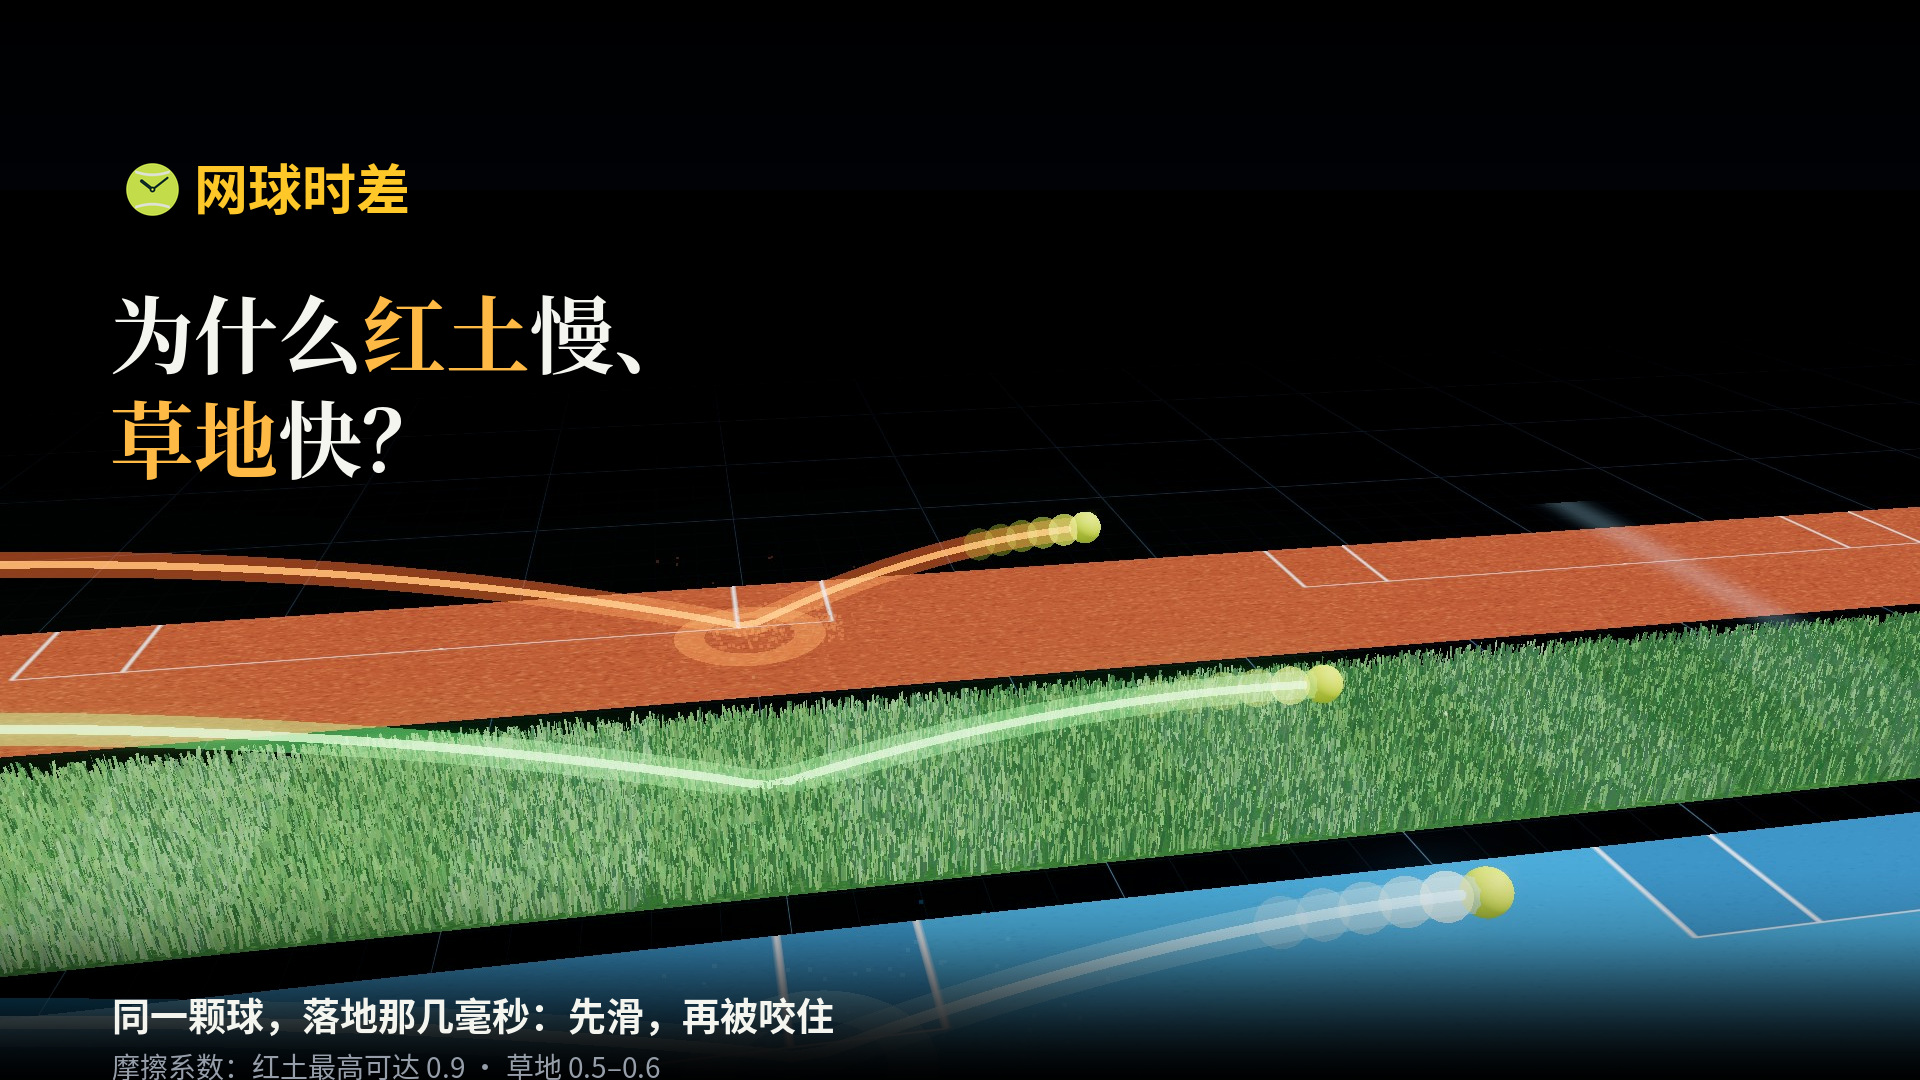
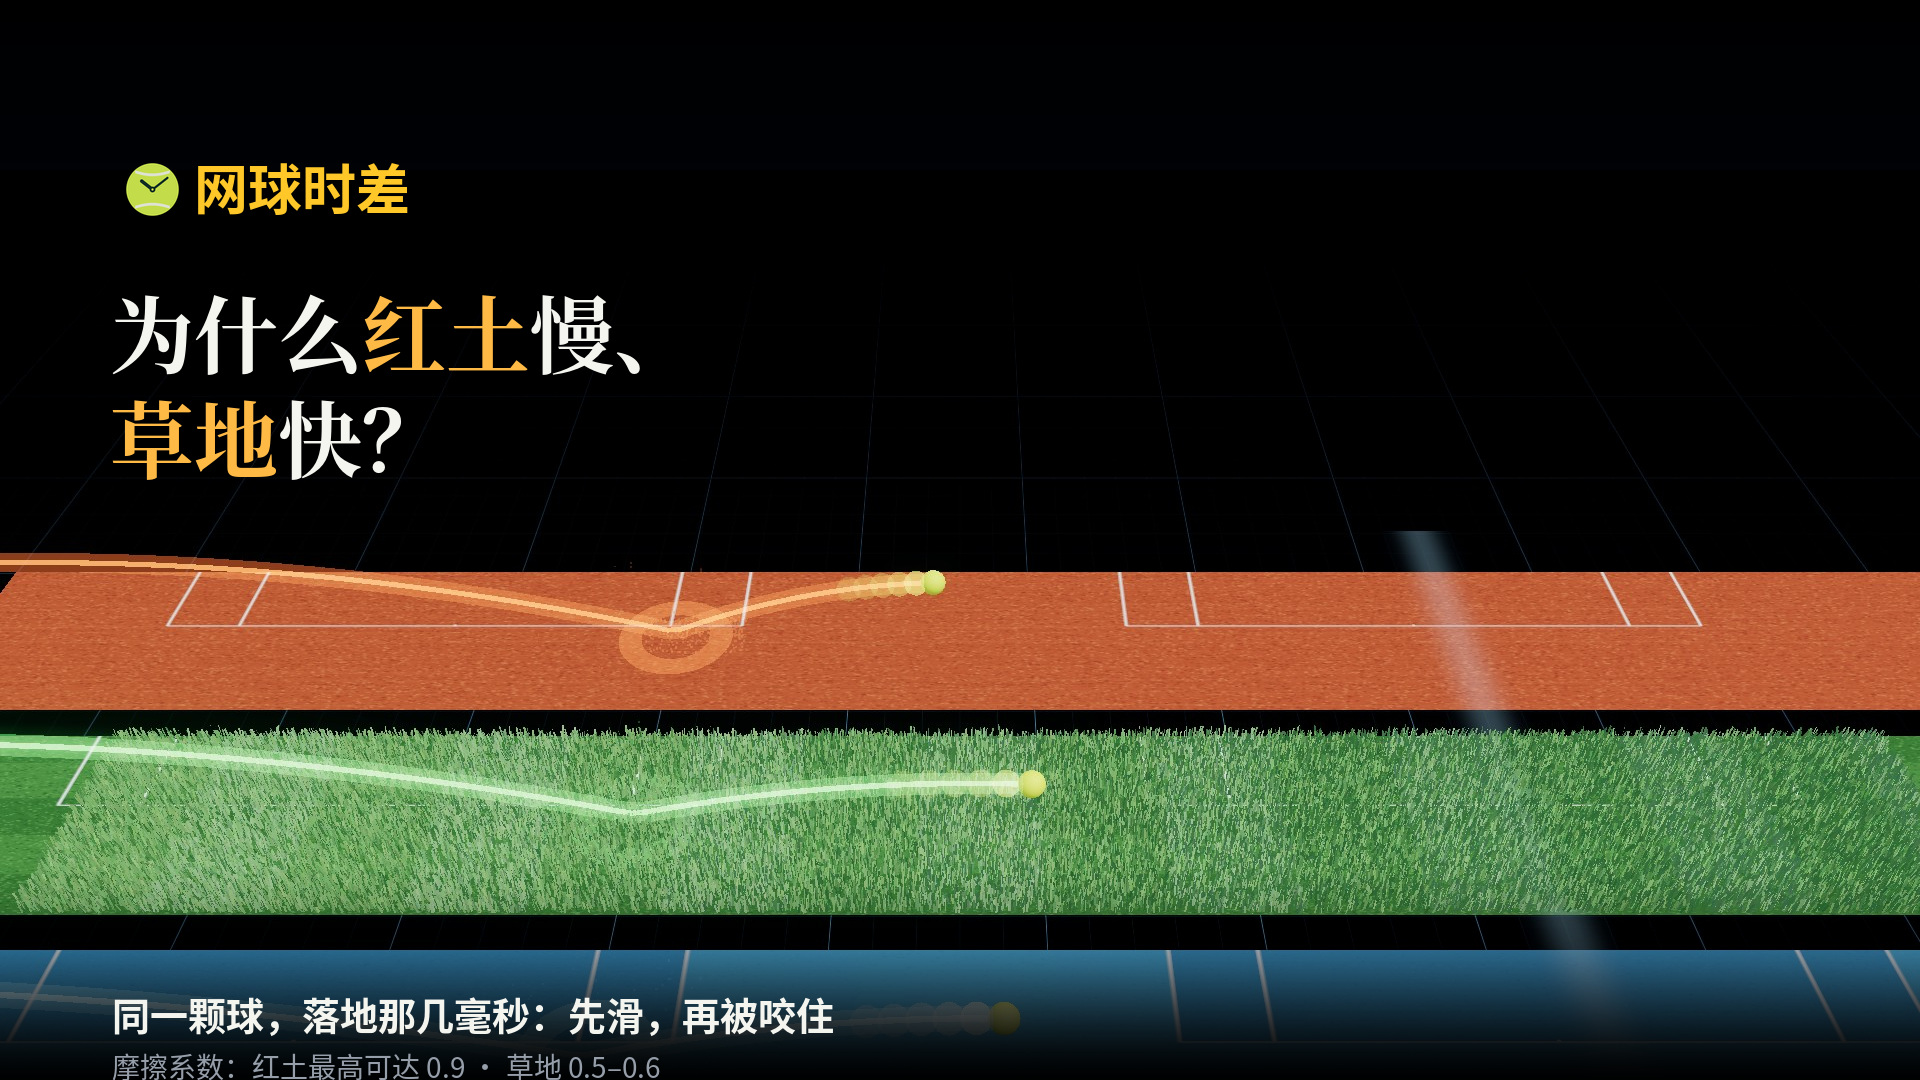
泳道镜头改成正前方俯看（所有者：场地朝屏幕倾斜，不是左右斜）；封面另用 cover=1 退远机位，三条泳道装在标题与底注之间
Claude-Session: https://claude.ai/code/session_011V3sK5yxYXvgeHo64wnqUL

Changed region(s): [[0.0, 0.4583, 1.0, 0.9472], [0.5, 0.9167, 0.5312, 0.9472]]

diff --git a/tools/vibetennis/episodes/vibetennis-court-speed-2026/r3d/scene.js b/tools/vibetennis/episodes/vibetennis-court-speed-2026/r3d/scene.js
@@ -448,9 +448,9 @@ function shotTL(t){
   setDust(-1); if(['lanes_all','lane_RG','lane_WIM','slow','years','acryl','ao_years'].includes(k)) hideWorld();
   if(k==='lanes_all'){ // 三条泳道一起：同一颗球砸向三种地面（0.6 倍慢放，循环）
     const per=4.0, tau=cl(((u%per)-1.0)*0.55,-0.9,1.3);
-    camLook(LX+lerp(-1,3,sm(u/D)),lerp(12,10,sm(u/D)),LZ+lerp(21,19,sm(u/D)),LX+3.5,0.2,LZ-1.5,42); setLanes(tau,[1,1,1]); setDust(tau); setFX(tau,[1,1,1],u); return k; }
+    if(COVER) camLook(LX+8,27,LZ+25,LX+8,0,LZ-4,40); else camLook(LX+3+lerp(-0.6,0.6,sm(u/D)),lerp(21,19,sm(u/D)),LZ+lerp(21,19,sm(u/D)),LX+3,0,LZ-0.8,40); /* 所有者：场地朝屏幕倾斜（正前方俯看），不是左右斜 */ setLanes(tau,[1,1,1]); setDust(tau); setFX(tau,[1,1,1],u); return k; }
   if(k==='lane_RG'||k==='lane_WIM'){ const per=4.6, tau=cl(((u%per)-1.2)*0.45,-0.9,1.3), show=k==='lane_RG'?[1,0,0]:[1,1,0];
-    const ln=k==='lane_RG'?LANES[0]:LANES[1]; camLook(LX+2+Math.sin(u*0.15)*1.5,6.5,LZ+ln.z+15,LX+4,0.6,LZ+ln.z,42); setLanes(tau,show); setDust(tau); setFX(tau,show,u); return k; }
+    const ln=k==='lane_RG'?LANES[0]:LANES[1]; camLook(LX+3+Math.sin(u*0.15)*0.8,10,LZ+ln.z+11,LX+3.5,0.3,LZ+ln.z,42); setLanes(tau,show); setDust(tau); setFX(tau,show,u); return k; }
   if(k==='venues'){ // 法网（顶棚打开）→ 温网 → 澳网 → 美网 → 并排
     const t1=at(sec,'s1')-sec.t0, t2=at(sec,'s2')-sec.t0, t3=at(sec,'s3')-sec.t0, t25=(t2+t3)/2;
     if(u<t1){ only('RG'); const q=u/t1; setRGRoof(sm((q-0.25)/0.6)); const P=POS.RG; orbit(P[0],P[1],230-50*q,120-30*q,2.95-0.45*q,6); return 'v_RG'; /* 从侧面看，收拢的顶棚落在画面左侧（同航拍机位） */ }
@@ -474,6 +474,6 @@ function shotTL(t){
   if(k==='outro'){ only(null); Object.values(LM).forEach(o=>o.visible=false); venues.forEach(v=>v.g.position.set(POS[v.k][0]*0.40,0,POS[v.k][1]*0.40));
     const q=sm(u/D); camLook(0,lerp(420,640,q),lerp(520,760,q),0,-10,lerp(25,40,q),lerp(30,24,q)); return k; }
   return k; }
-const PREVIEW=Q.get('preview')==='1';
+const PREVIEW=Q.get('preview')==='1', COVER=Q.get('cover')==='1'; // 封面用：镜头再退远一点，三条泳道都装进画面下半部
 window.renderAt=(t)=>{ for(const k in anchors) delete anchors[k]; const s=PREVIEW?previewShot(t):shotTL(t); composer.render(); return JSON.stringify(Object.assign({_shot:s},anchors)); };
 window.READY=true;

diff --git a/tools/vibetennis/episodes/vibetennis-court-speed-2026/r3d/still_cover.js b/tools/vibetennis/episodes/vibetennis-court-speed-2026/r3d/still_cover.js
@@ -5,7 +5,7 @@ const times=process.argv.slice(2).map(Number); const W=+(process.env.W||1920), H
  const b=await chromium.launch({args:['--use-angle=swiftshader','--enable-unsafe-swiftshader','--ignore-gpu-blocklist']});
  const p=await b.newPage({viewport:{width:W,height:H}});
  p.on('console',m=>{ if(m.type()==='error'||m.type()==='warning') console.error('PAGE',m.text().slice(0,300)); }); p.on('pageerror',e=>console.error('PAGEERR',e.message));
- await p.goto(`http://127.0.0.1:${P}/index.html?w=${W}&h=${H}&lang=${process.env.VT_LANG||'zh'}`); await p.waitForFunction('window.READY===true',{timeout:120000});
+ await p.goto(`http://127.0.0.1:${P}/index.html?w=${W}&h=${H}&lang=${process.env.VT_LANG||'zh'}${process.env.COVER?'&cover=1':''}`); await p.waitForFunction('window.READY===true',{timeout:120000});
  fs.mkdirSync(D,{recursive:true});
  for(const t of times){ const t0=Date.now(); const r=await p.evaluate(t=>{ const a=window.renderAt(t); return [a,document.querySelector('canvas').toDataURL('image/jpeg',0.9)]; },t);
    const n=`${D}/s_${t.toFixed(2).padStart(7,'0')}`; fs.writeFileSync(n+'.jpg',Buffer.from(r[1].split(',')[1],'base64')); fs.writeFileSync(n+'.json',r[0]); console.log(t,Date.now()-t0,'ms'); }
